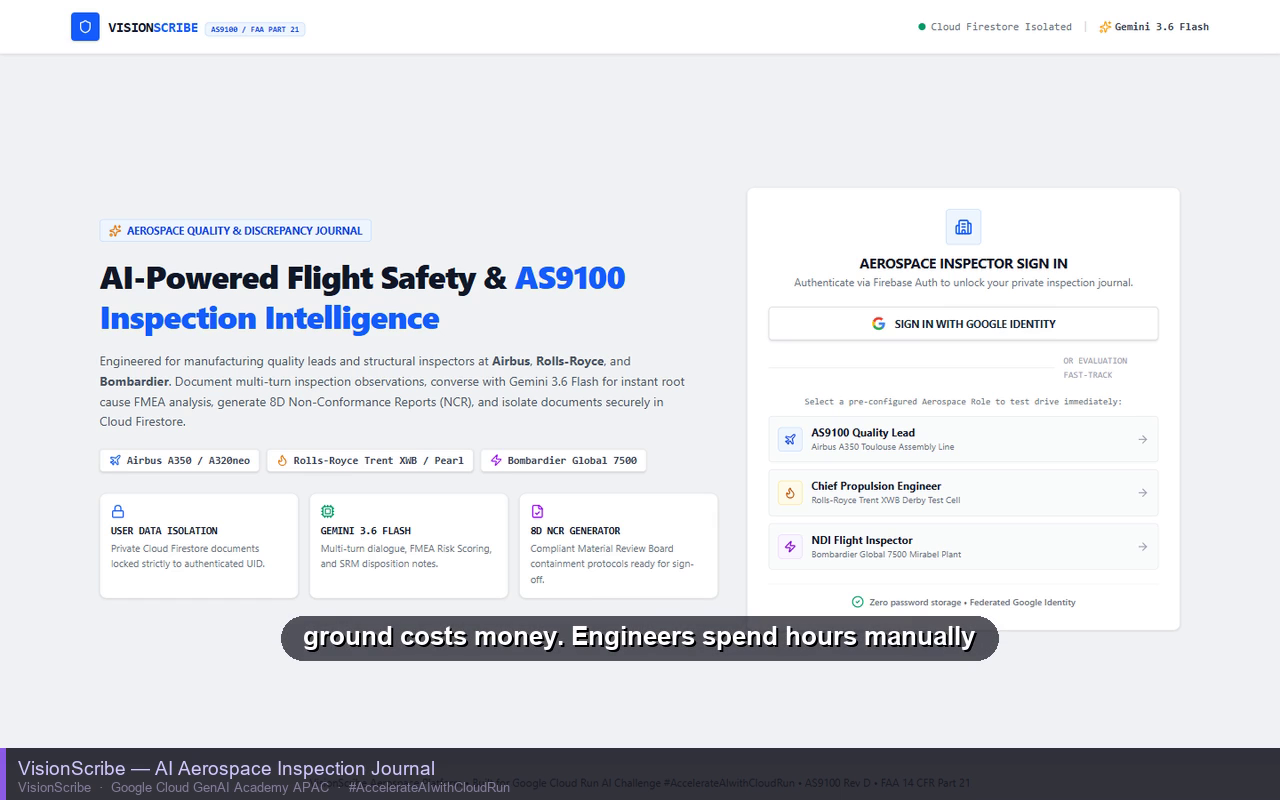
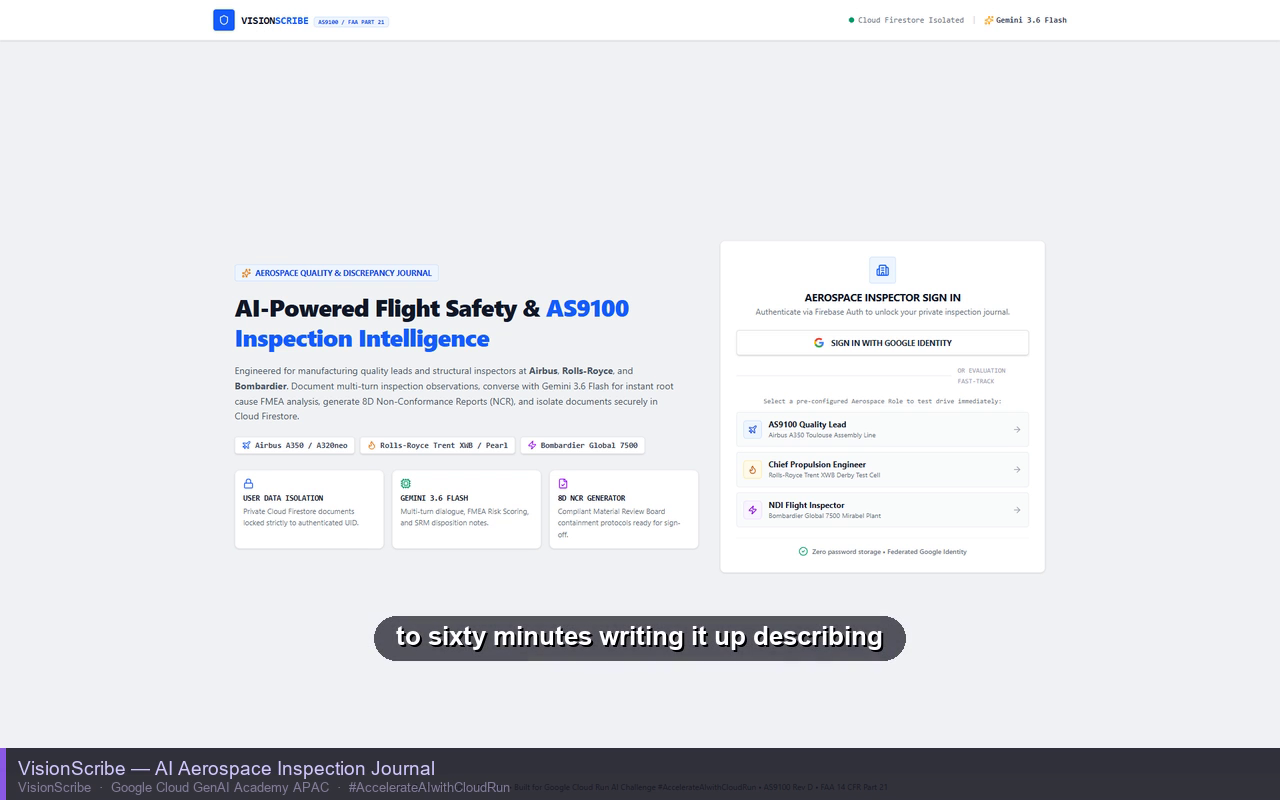
docs: add live app link, showcase 8D NCR and Supervisor Queue screens
README was missing an actual hyperlink to the deployed app. Gallery now
includes the 8D Non-Conformance Report and Supervisor Review Queue
screens to match the feature list and the reworked demo video.

diff --git a/README.md b/README.md
@@ -19,13 +19,15 @@ Aerospace inspectors spend 30–60 minutes writing up a *single* defect — cros
 
 Built for the **Google Cloud Run AI Ideathon Challenge** (`#AccelerateAIwithCloudRun`).
 
+**🔗 Live app: [visionscribe-aerospace-ai-inspection-ncr-journal-59981190871.asia-southeast1.run.app](https://visionscribe-aerospace-ai-inspection-ncr-journal-59981190871.asia-southeast1.run.app/)**
+
 ---
 
 ## 🎥 Demo
 
 [![Watch the VisionScribe demo](docs/screenshots/demo-thumbnail.png)](https://lnkd.in/g2EFTbT6)
 
-*Click the thumbnail to watch the full walkthrough — upload → AI reflection → copilot chat → NCR export.*
+*Click the thumbnail to watch the full walkthrough — upload & blueprint pinning → AI reflection → 8D NCR → copilot chat → Supervisor Review Queue → audit export.*
 
 ---
 
@@ -33,8 +35,9 @@ Built for the **Google Cloud Run AI Ideathon Challenge** (`#AccelerateAIwithClou
 
 | | |
 |---|---|
-| **Secure sign-in, zero passwords** ![Sign in](docs/screenshots/01-landing-signin.png) | **Upload a defect + field notes** ![Upload](docs/screenshots/02-defect-upload.png) |
-| **Gemini AI reflection: FMEA, root cause, MRB disposition** ![AI Reflection](docs/screenshots/03-ai-reflection-ncr.png) | **Multi-turn engineering copilot chat** ![Copilot](docs/screenshots/04-copilot-chat.png) |
+| **Secure sign-in, zero passwords** ![Sign in](docs/screenshots/01-landing-signin.png) | **Upload a defect + pin it on the blueprint** ![Upload](docs/screenshots/02-defect-upload.png) |
+| **Gemini AI reflection: FMEA, root cause, MRB disposition** ![AI Reflection](docs/screenshots/03-ai-reflection-ncr.png) | **Automated 8D NCR — all eight disciplines, MRB sign-off** ![8D NCR](docs/screenshots/06-8d-ncr-report.png) |
+| **Multi-turn engineering copilot chat** ![Copilot](docs/screenshots/04-copilot-chat.png) | **Role-based Supervisor Review Queue — cross-user triage** ![Supervisor Queue](docs/screenshots/07-supervisor-queue.png) |
 
 **Full inspection journal — searchable, filterable, audit-ready:**
 ![Inspection Journal](docs/screenshots/05-inspection-journal.png)
@@ -121,7 +124,7 @@ npm run start   # serve the built app
 
 ## 🧪 Try It Yourself
 
-1. Open the live app and sign in with Google — or pick one of the **Fast-Track** presets (Airbus A350, Rolls-Royce Trent XWB, Bombardier Global 7500) to load a pre-filled test scenario.
+1. Open the [live app](https://visionscribe-aerospace-ai-inspection-ncr-journal-59981190871.asia-southeast1.run.app/) and sign in with Google — or pick one of the **Fast-Track** presets (Airbus A350, Rolls-Royce Trent XWB, Bombardier Global 7500) to load a pre-filled test scenario.
 2. Pin a defect coordinate on the interactive airframe blueprint, or use a quick preset.
 3. Hit **Generate Gemini AS9100 Reflection** and watch the FMEA score, root cause hypothesis, and MRB disposition appear in seconds.
 4. Open **Gemini Copilot Chat** and ask a follow-up question — it keeps full context of the inspection.
